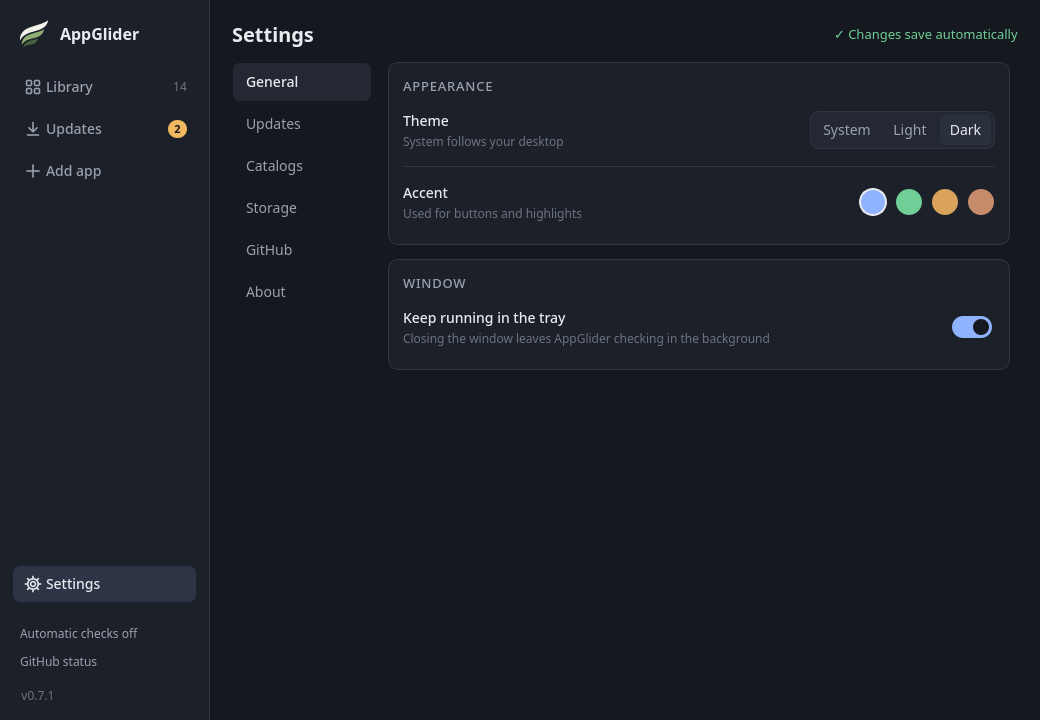
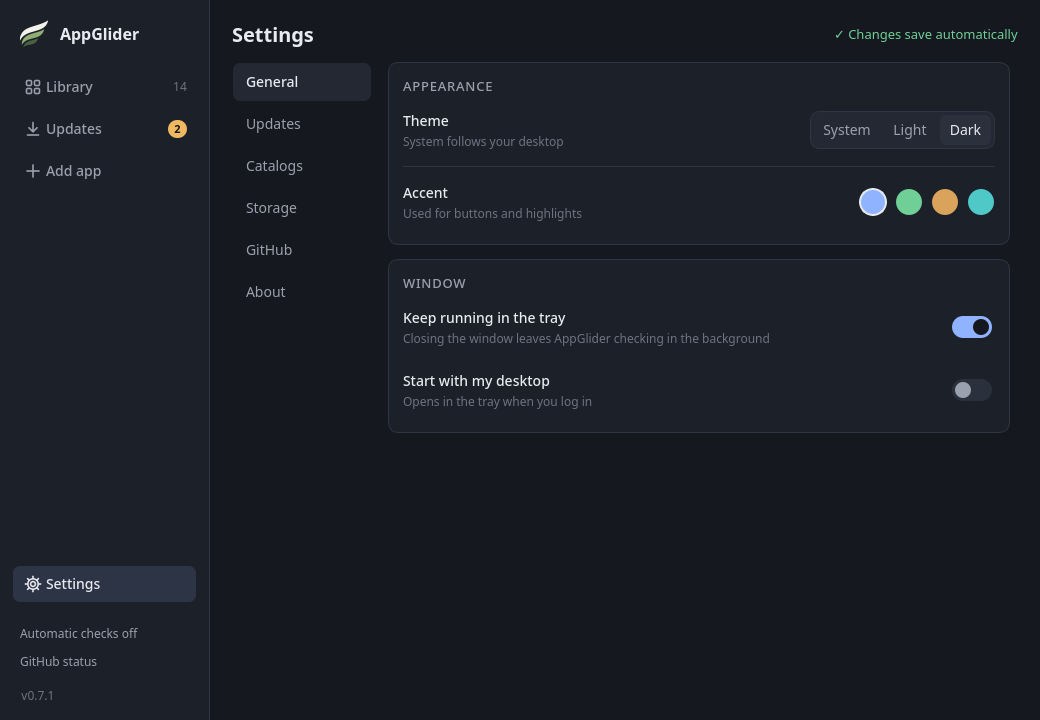
feat(ui): replace the clay accent with teal
Clay looked like Amber. A saved Clay accent and the retired Earthy theme now read as Amber.

Changed region(s): [[0.3692, 0.5194, 0.5538, 0.5806], [0.8923, 0.5194, 0.9538, 0.5806], [0.9231, 0.2444, 0.9538, 0.3056]]

diff --git a/tests/test_gui.py b/tests/test_gui.py
@@ -1397,7 +1397,7 @@ class LibraryTests(unittest.TestCase):
     def test_retired_themes_and_unknown_values_are_migrated_on_read(self) -> None:
         for stored, expected in (
             ("Forest", ("Dark", "Green")),
-            ("Earthy", ("Dark", "Clay")),
+            ("Earthy", ("Dark", "Amber")),
             ("Sandstone", ("Dark", "Amber")),
             ("Unknown", ("System", "Blue")),
             ("Light", ("Light", "Blue")),
@@ -1412,6 +1412,9 @@ class LibraryTests(unittest.TestCase):
         self.assertEqual(appearance_choice(self.settings), ("Dark", "Blue"))
         self.settings.setValue("appearance/accent", "Amber")
         self.assertEqual(appearance_choice(self.settings), ("Dark", "Amber"))
+        self.settings.setValue("appearance/accent", "Clay")  # retired accent
+        self.assertEqual(appearance_choice(self.settings), ("Dark", "Amber"))
+        self.assertEqual(self.settings.value("appearance/accent"), "Clay")  # read never writes
 
     def test_retired_theme_applies_and_shows_migrated_values(self) -> None:
         self.settings.setValue("appearance/theme", "Forest")
@@ -1437,16 +1440,16 @@ class LibraryTests(unittest.TestCase):
         self.window.apply_theme()
         self.assertEqual(highlight(), "#3563d8")
         page = self.window.settings_page
-        self.assertEqual(list(page.accents), ["Blue", "Green", "Amber", "Clay"])
+        self.assertEqual(list(page.accents), ["Blue", "Green", "Amber", "Teal"])
         for name, button in page.accents.items():
             self.assertTrue(button.isCheckable())
             self.assertEqual(button.accessibleName(), f"{name} accent")
         self.assertTrue(page.accents["Blue"].isChecked())
-        page.accents["Clay"].click()
-        self.assertTrue(page.accents["Clay"].isChecked())
+        page.accents["Teal"].click()
+        self.assertTrue(page.accents["Teal"].isChecked())
         self.assertFalse(page.accents["Blue"].isChecked())
-        self.assertEqual(highlight(), "#9c5434")
-        self.assertEqual(self.settings.value("appearance/accent"), "Clay")
+        self.assertEqual(highlight(), "#0f7c80")
+        self.assertEqual(self.settings.value("appearance/accent"), "Teal")
         page.theme.buttons[2].click()
         page.accents["Amber"].click()
         self.assertEqual(self.settings.value("appearance/accent"), "Amber")

diff --git a/src/appglider/preferences.py b/src/appglider/preferences.py
@@ -9,13 +9,15 @@ ACCENTS: dict[str, tuple[str, str]] = {
     "Blue": ("#8fb3ff", "#3563d8"),
     "Green": ("#6fcf97", "#1f8a4c"),
     "Amber": ("#d9a35b", "#9a6512"),
-    "Clay": ("#c58b6a", "#9c5434"),
+    "Teal": ("#4fc8c8", "#0f7c80"),
 }
 DEFAULT_ACCENT = "Blue"
+# Retired accents -> the accent they are read as.
+RETIRED_ACCENTS = {"Clay": "Amber"}
 # Retired themes -> (theme, accent) they are read as.
 RETIRED_THEMES = {
     "Forest": ("Dark", "Green"),
-    "Earthy": ("Dark", "Clay"),
+    "Earthy": ("Dark", "Amber"),
     "Sandstone": ("Dark", "Amber"),
 }
 CHECK_INTERVALS = (
@@ -33,6 +35,7 @@ def appearance_choice(settings: QSettings) -> tuple[str, str]:
     """Return the saved (theme, accent), mapping retired themes. Never writes settings."""
     theme = str(settings.value("appearance/theme", SYSTEM_THEME))
     accent = str(settings.value("appearance/accent", ""))
+    accent = RETIRED_ACCENTS.get(accent, accent)
     if theme in RETIRED_THEMES:
         theme, retired_accent = RETIRED_THEMES[theme]
         accent = accent if accent in ACCENTS else retired_accent

diff --git a/docs/usage.md b/docs/usage.md
@@ -283,7 +283,7 @@ Open **Settings** (bottom of the sidebar). It is a page in the main window with 
 sections on the left. Everything saves as you change it, so there is no Save or Cancel; the
 page says "Changes save automatically".
 
-- **General**: **Theme** (System, Light or Dark), **Accent** (Blue, Green, Amber or Clay) and
+- **General**: **Theme** (System, Light or Dark), **Accent** (Blue, Green, Amber or Teal) and
   whether closing the window keeps AppGlider running in the tray, and whether AppGlider
   starts with your desktop.
 - **Updates**: how often to check for updates, and whether to **Notify me about new
@@ -297,7 +297,7 @@ page says "Changes save automatically".
 
 **Theme** System (the default) follows your desktop's light or dark setting. The window
 changes as you pick, so you can try them out. If you used the older Forest, Earthy or
-Sandstone themes, AppGlider now shows them as Dark with a Green, Clay or Amber accent.
+Sandstone themes, AppGlider now shows them as Dark with a Green or Amber accent.
 
 Changing the install folder (under **Storage**) only affects new installs. Apps you already installed stay where
 they are and keep updating there. The new folder is used once you finish typing it or choose it with **Browse…**.

diff --git a/docs/design.md b/docs/design.md
@@ -110,12 +110,12 @@ colour, radius or spacing value directly in a widget.
 Chip and banner backgrounds are the state colour at 13–14 % opacity.
 
 **Accent** is chosen separately from the theme: Blue `#8fb3ff` / `#3563d8`, Green `#6fcf97` /
-`#1f8a4c`, Amber `#d9a35b` / `#9a6512`, Clay `#c58b6a` / `#9c5434` (dark / light). Text on an
+`#1f8a4c`, Amber `#d9a35b` / `#9a6512`, Teal `#4fc8c8` / `#0f7c80` (dark / light). Text on an
 accent-filled button uses `bg` in dark mode and white in light mode.
 
 **Themes** are System (follows the desktop's light or dark preference), Light
 and Dark. Forest, Earthy and Sandstone are retired; a saved retired theme maps to Dark with
-the nearest accent (Forest → Green, Earthy → Clay, Sandstone → Amber).
+the nearest accent (Forest → Green, Earthy → Amber, Sandstone → Amber; the retired Clay accent → Amber).
 
 **Shape and spacing**: radius 10 px for panels and the list, 8 px for buttons, inputs and
 segments, 20 px (pill) for chips. Spacing steps are 4, 8, 12, 16 and 22 px; page padding is

diff --git a/docs/branding.md b/docs/branding.md
@@ -9,8 +9,9 @@ palette is `#1C1F1A`, `#5B7F52`, `#8FAE75`, `#D6D1C4` and `#F4F3EB`. The name re
 AppHarbour, which was already in use.
 
 Settings → General offers System (follows the desktop's light or dark preference, the
-default), Light and Dark, plus an accent colour: Blue (the default), Green, Amber or Clay.
-The retired Forest, Earthy and Sandstone themes are read as Dark with Green, Clay or Amber.
+default), Light and Dark, plus an accent colour: Blue (the default), Green, Amber or Teal.
+The retired Forest theme is read as Dark with Green, Earthy and Sandstone as Dark with Amber,
+and the retired Clay accent as Amber.
 
 While updates are waiting, the tray shows `appglider-update.png` (source
 `docs/branding/appglider-update-icon.svg`): the same wing with an amber badge and an up arrow

diff --git a/docs/roadmap.md b/docs/roadmap.md
@@ -24,7 +24,7 @@ change after discussion. Something being listed here is not a promise that it wi
   apps as rows with status chips, an updates banner with **Update all**, and a page for each
   app with its release notes, versions, preferences and a Manage area. Settings and Add app
   are pages in the same window, and there are Light and Dark themes with a choice of
-  accent colour (Blue, Green, Amber or Clay). The window works from the keyboard.
+  accent colour (Blue, Green, Amber or Teal). The window works from the keyboard.
 - **Your own order:** drag rows into a custom order (or use **Move up** and **Move down**);
   pinned apps stay on top.
 - **Start with my desktop:** an opt-in switch in Settings → General writes an autostart entry

diff --git a/README.md b/README.md
@@ -33,7 +33,7 @@ made up.*
 - Shares lists of apps as plain text files you can read, edit and import
   (see [catalogs](docs/usage.md#catalogs-sharing-a-list-of-apps)).
 - Follows your desktop's light or dark setting, or choose Light or Dark and one of four
-  accent colours (Blue, Green, Amber or Clay).
+  accent colours (Blue, Green, Amber or Teal).
 
 AppGlider only manages the apps it installed itself. AppImages you already have, and apps
 from other launchers, are left alone.
